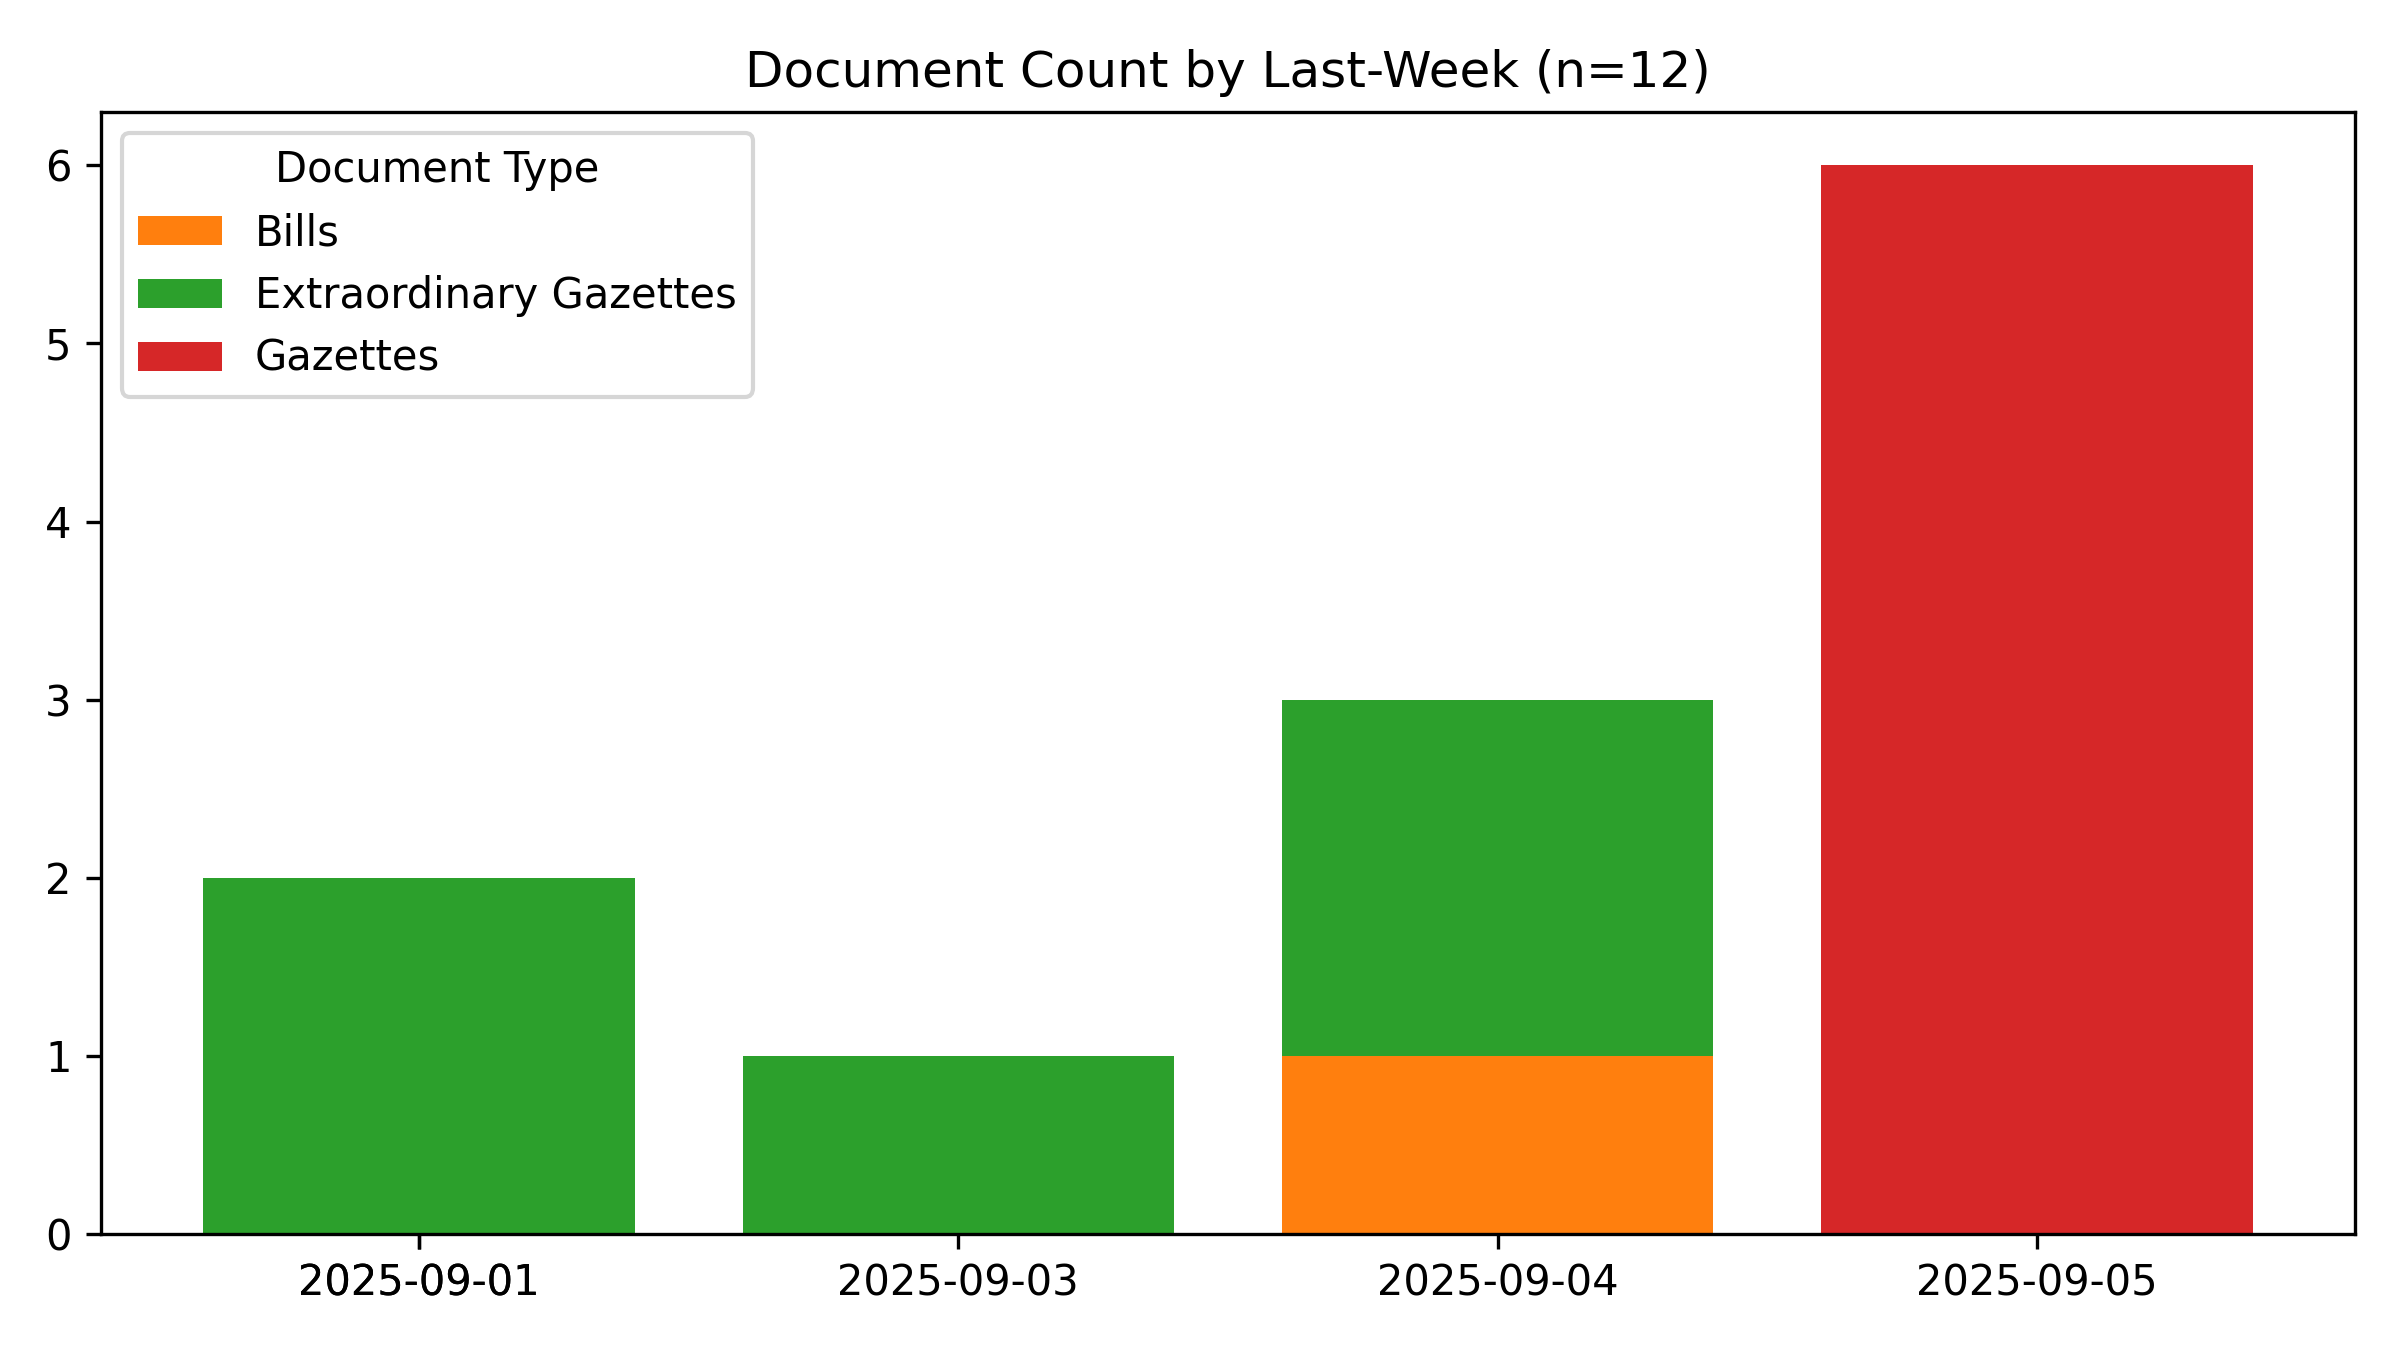
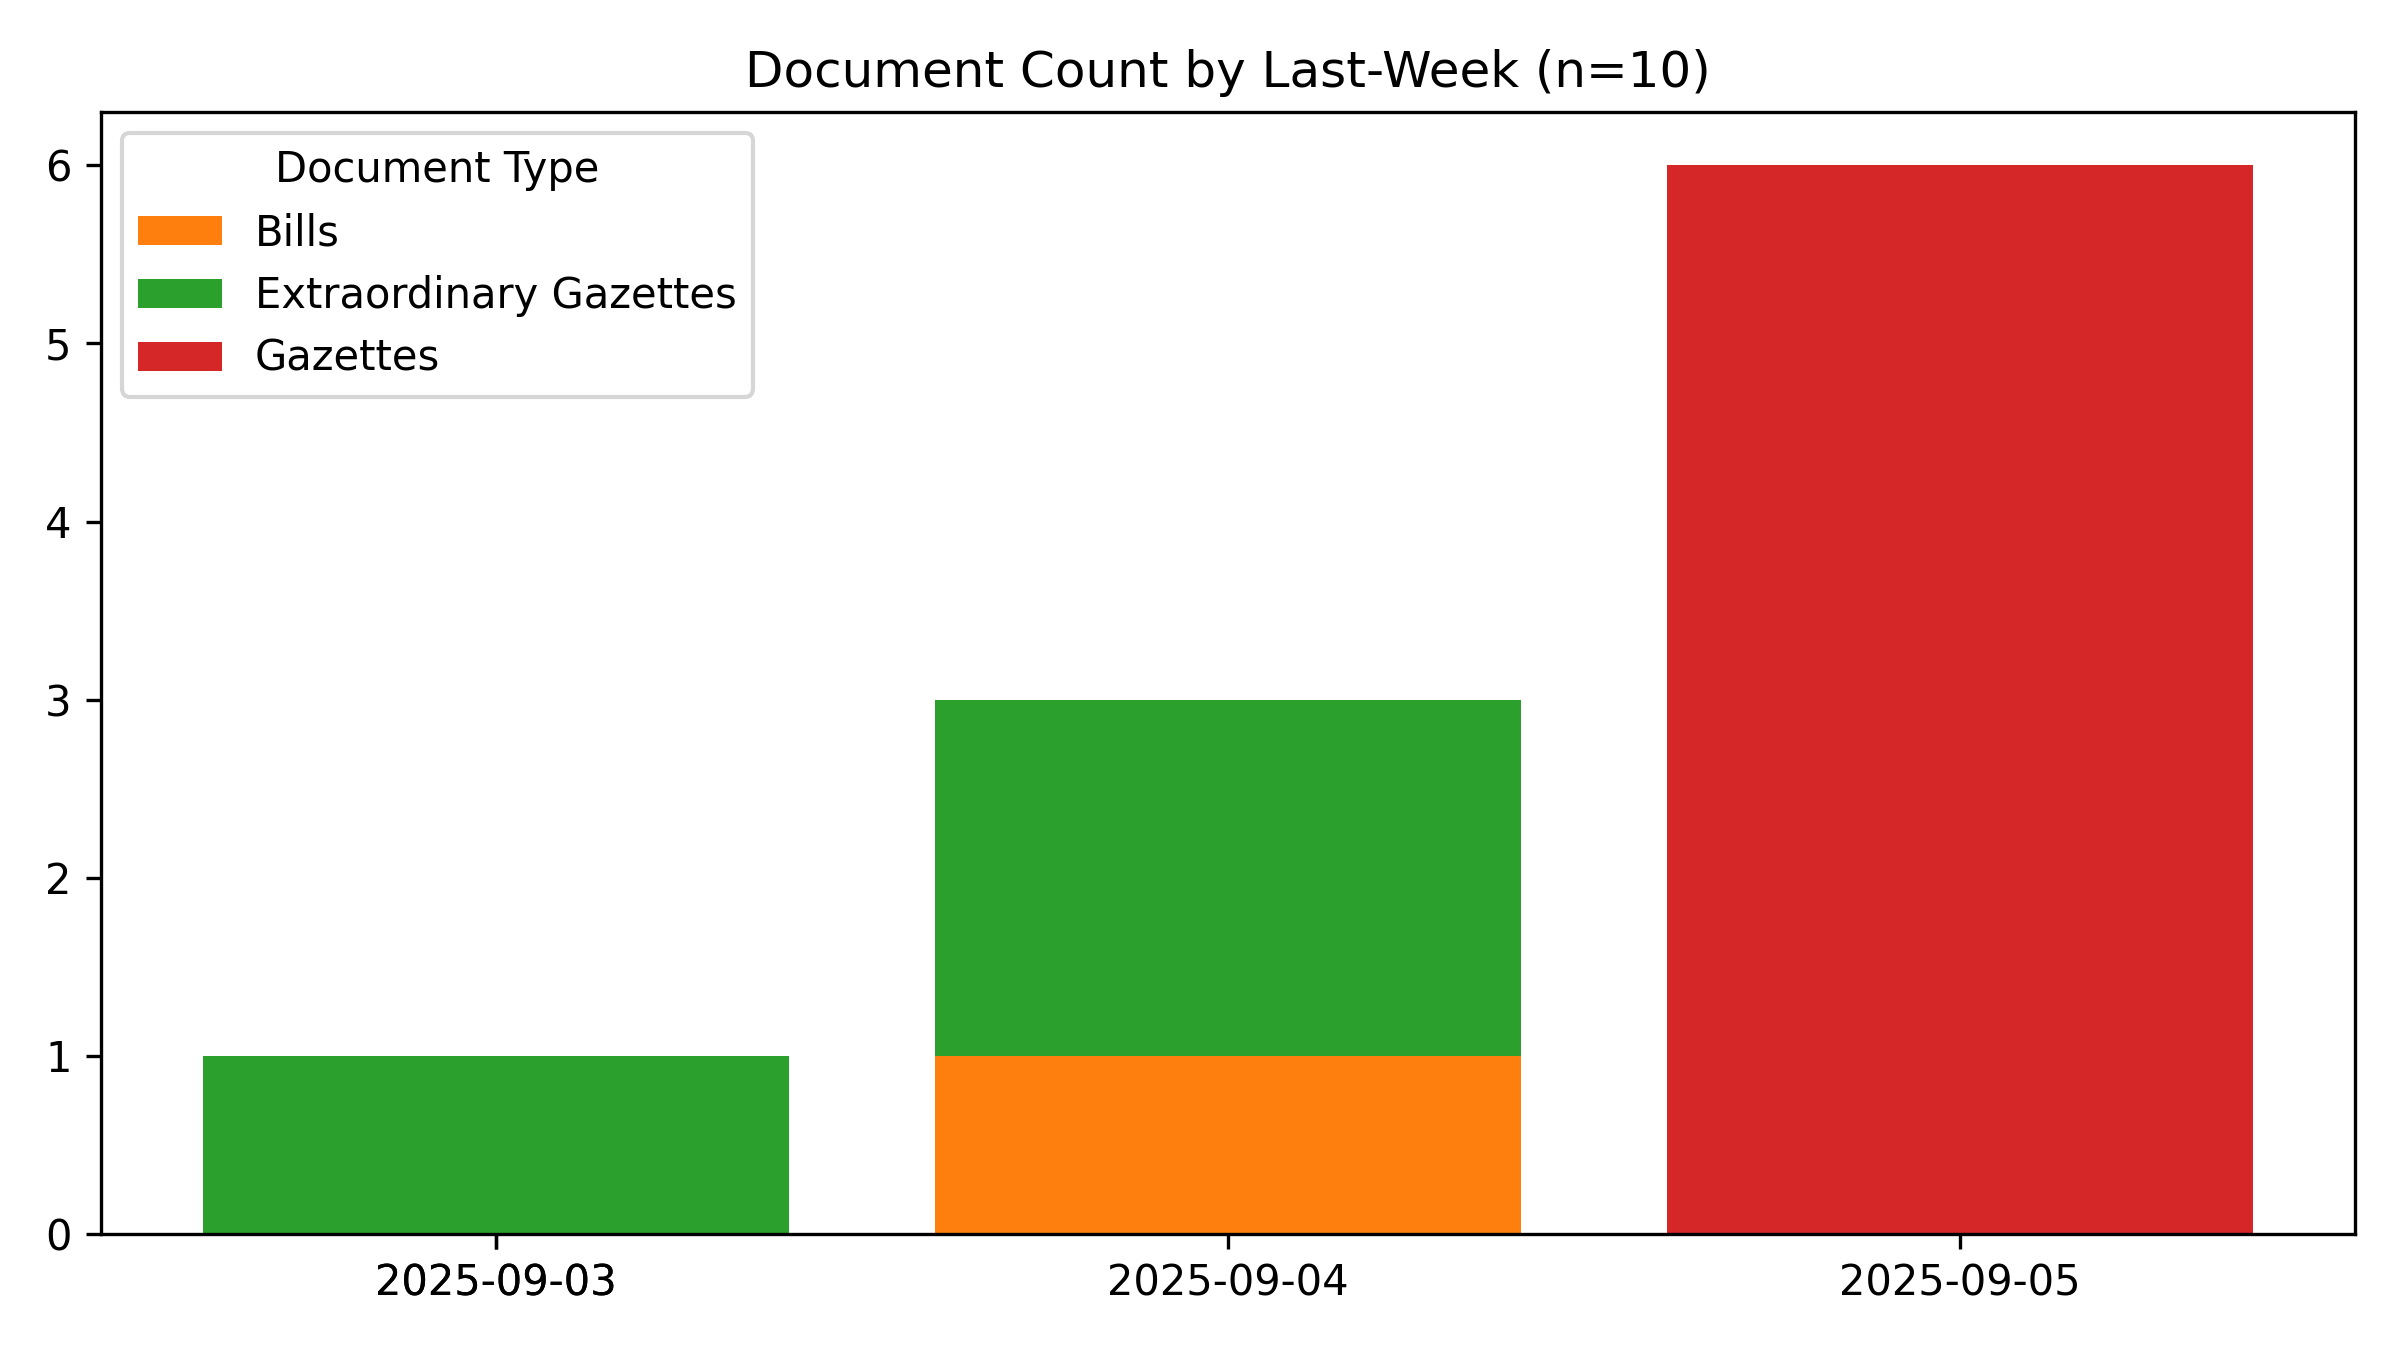
🤖 [build_readme.yml] 2025-09-09-0015

diff --git a/README.md b/README.md
@@ -1,6 +1,6 @@
 # #SriLanka 🇱🇰 - Legal Documents #Dataset
 
-*Last Updated **2025-09-09 05:13:12**.*
+*Last Updated **2025-09-09 05:45:27**.*
 
 **44,545** documents (24.3 MB), from 1981-01-22 to 2025-09-05.
 
@@ -54,7 +54,7 @@ For best results, use a desktop browser.
 
 ## Recent Documents (Published during the last 7 days)
 
-**12** Documents
+**10** Documents
 
 - 📢 [2025-09-05] [Legal Section](https://github.com/nuuuwan/lk_legal_docs_data/tree/data_2020s/data/gazettes/2025/2025-09-05-legal-section)
 - 📢 [2025-09-05] [Land Section](https://github.com/nuuuwan/lk_legal_docs_data/tree/data_2020s/data/gazettes/2025/2025-09-05-land-section)
@@ -66,5 +66,3 @@ For best results, use a desktop browser.
 - 🚨 [2025-09-04] [Election Commission - Filling of a vacancy in the office of member of the Medawachchiya Pradeshiya Sabha](https://github.com/nuuuwan/lk_legal_docs_data/tree/data_2020s/data/extra-gazettes/2025/2452-41)
 - 🚨 [2025-09-04] [2452/38](https://github.com/nuuuwan/lk_legal_docs_data/tree/data_2020s/data/extra-gazettes/2025/2452-38)
 - 🚨 [2025-09-03] [Coast Conservation and Costal Resource Management Department- Environmental Impact Assessment Report Proposed Projection on 288 units of Apartment Project](https://github.com/nuuuwan/lk_legal_docs_data/tree/data_2020s/data/extra-gazettes/2025/2452-21)
-- 🚨 [2025-09-01] [Dept. of Local Governtment- Eastern Province Elected and declared New Vice Chairman of Manmunaipattu Pradeshiya Sabha](https://github.com/nuuuwan/lk_legal_docs_data/tree/data_2020s/data/extra-gazettes/2025/2452-02)
-- 🚨 [2025-09-01] [Sri Lanka Customs - Rates of Exchange with effect from 01.09.2025 to 07.09.2025](https://github.com/nuuuwan/lk_legal_docs_data/tree/data_2020s/data/extra-gazettes/2025/2452-01)
